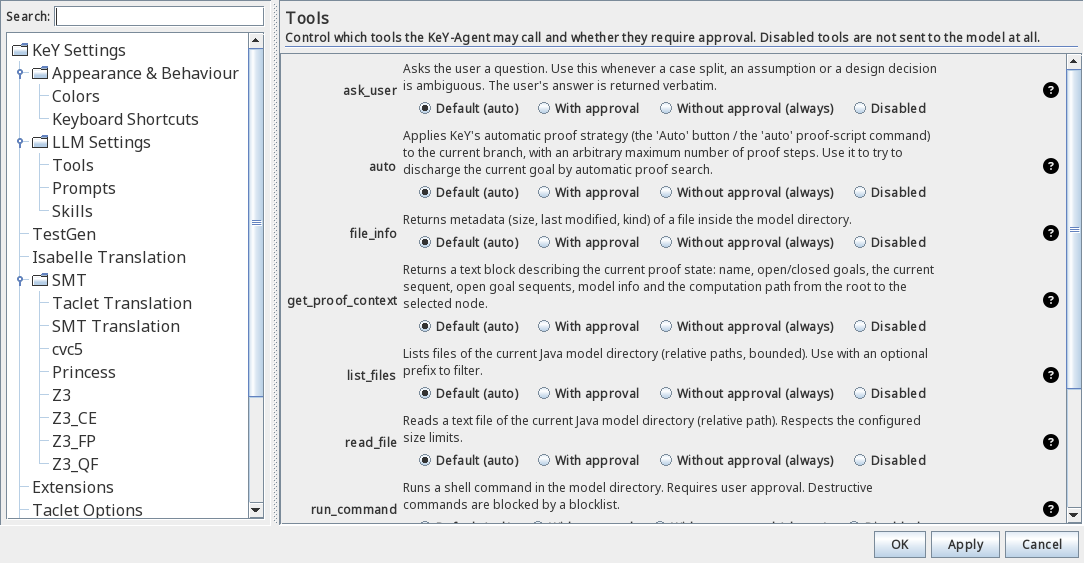
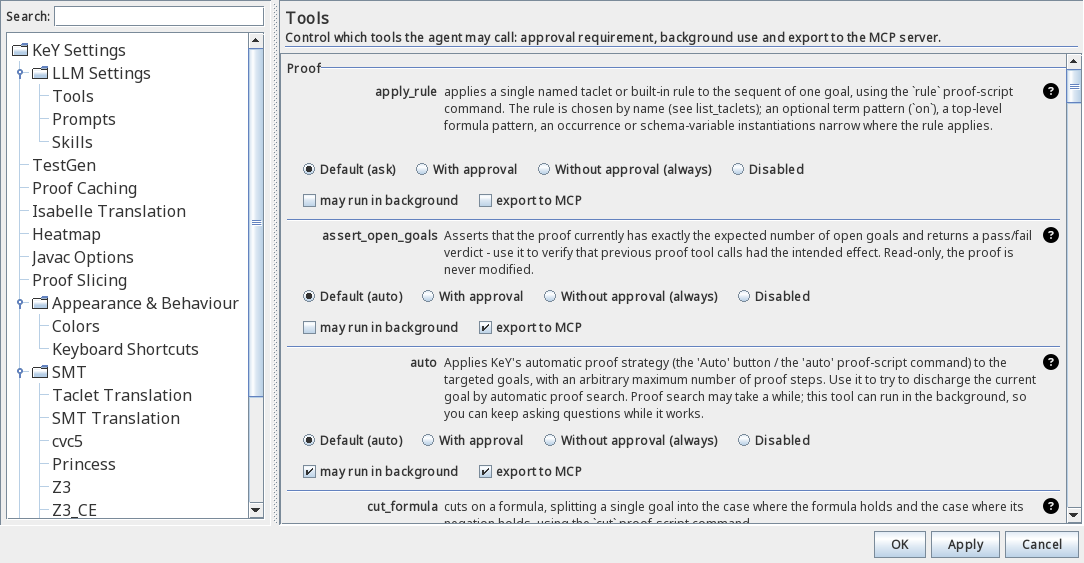
LLM docs: update screenshots and content for the current UI
Regenerate the three screenshots by painting the Swing components into
BufferedImages (LlmScreenshotsTest in the KeY repository) and rewrite the
page to match the current panel: right-side docking, Ctrl+P menu entry,
$/@// completions, KeY MCP server in the status line, tool console and
current tool permission UI.

diff --git a/docs/user/LLM/index.md b/docs/user/LLM/index.md
@@ -1,15 +1,15 @@
 ---
 author: "Alexander Weigl"
-date: "October 2026"
+date: "November 2026"
 ---
 
 # LLM Support (KeY-Agent)
 
-KeY comes with an integrated AI assistant, the **KeY-Agent**: a chat panel docked in the
-main window that answers questions about your current proof, can inspect the Java model
-and the sequent, and can run proof-script commands such as `tryclose` and `auto` on your
-behalf. It works with any OpenAI-compatible chat-completions service; by default KeY uses
-the LLM service operated by KIT (`https://ki-toolbox.scc.kit.edu/v1`).
+KeY comes with an integrated AI assistant, the **KeY-Agent**: a chat panel docked at the
+right side of the main window that answers questions about your current proof, can inspect
+the Java model and the sequent, and can run proof commands such as `tryclose` and `auto` on
+your behalf. It works with any OpenAI-compatible chat-completions service; by default KeY
+uses the LLM service operated by KIT (`https://ki-toolbox.scc.kit.edu`).
 
 ![The KeY-Agent panel docked in the main window](llm-panel.png){ width="800" }
 
@@ -27,23 +27,28 @@ the LLM service operated by KIT (`https://ki-toolbox.scc.kit.edu/v1`).
 ## Features
 
 - **Chat about the current proof** — the agent sees the proof name, status, the current
-  sequent and the open goals on request, and keeps a separate conversation for every proof.
+  sequent and the open goals, and keeps a separate conversation for every proof.
 - **Tool calls with approval** — the agent can execute proof tools; every sensitive action
   asks for your permission first, and you can disable tools entirely.
 - **Proof automation** — `tryclose` attempts to close the current goal or branch
-  automatically, `auto` runs KeY's automatic strategy for a bounded number of steps.
+  automatically, `auto` runs KeY's automatic strategy for a bounded number of steps, and
+  further tools apply single rules, run proof scripts, fork the proof, edit sequents and
+  probe candidate formulas.
 - **Taclet management** — list the available taclets and taclet options of any open proof,
   export them as parseable rule text, and add or remove taclets (changes require your
   approval).
-- **Code access** — tick files in the *Files* tab or reference them directly in the prompt;
-  file contents are embedded into the request (no extra round trip).
+- **Code access** — reference files with `@src/MyClass.java` to embed them into the message,
+  or let the agent use the `list_files`, `read_file`, `edit_file` and `file_info` tools.
 - **Reusable prompts and skills** — save your own prompt templates and background
   knowledge, and activate them per turn.
+- **Input assistance** — autocompletion for context tokens (`$`), files (`@`) and commands
+  (`/`); press ++ctrl+space++ to expand a token inline and ++ctrl+enter++ to send the prompt
+  from anywhere in the panel.
+- **KeY MCP server** — optionally expose the agent's tool set over the Model Context
+  Protocol (SSE) on the loopback interface, so external MCP clients such as Claude Desktop
+  can inspect and drive your proof, too.
 - **Sub-agents** — hand off isolated tasks (closing goals, inspecting files) to bounded
-  child agents with their own tool whitelist; several tasks can run in parallel, and the
-  sub-agent activity is recorded in a log the agent can consult.
-- **Input assistance** — autocompletion for context tokens, files and commands; press
-  ++ctrl+space++ to expand a token inline.
+  child agents with their own tool whitelist. Currently disabled by default.
 
 ## Configuration
 
@@ -57,59 +62,73 @@ optional; the defaults work out of the box once a valid token is set.
    OpenAI-compatible API.
 2. **Auth Token** — your API key for that service, issued by the operator of the service.
 3. **Default model** — the model to talk to. *Fetch Models* queries the service's model
-   list and fills **Available Models**; you can also type entries manually and switch the
-   model per proof from the panel's title menu.
-4. Everything else (system prompt, temperature, history and file budgets, shell policy) has
-   sensible defaults; the full reference is linked at the bottom of this page.
+   list and fills **Available Models**; you can also type entries manually. The model used
+   for a proof can be switched at any time from the panel's title menu (*Models* submenu).
+4. **Agent behavior** — the agent's system prompt, whether it may ask you questions
+   (*ask_user*, on), use skills (*use_skill*, off) or consult the LLM about its own
+   reasoning (*ask_llm*, on), and the per-turn budget of tool-calling rounds (8).
+5. Everything else (context and history budgets, file handling, shell policy, MCP server,
+   user interface) has sensible defaults; the full reference is linked at the bottom of this
+   page.
 
 ### Tool permissions
 
-The **Tools** sub-page decides what the agent may do and what needs your approval:
+The **Tools** sub-page decides what the agent may do, what needs your approval, and what is
+shared with external MCP clients:
 
 ![Per-tool permission settings](llm-settings-tools.png){ width="800" }
 
-Every tool has four modes: **Default (ask)** — follow the tool's own requirement,
-**With approval**, **Without approval (always)**, and **Disabled** — the tool is not even
-offered to the model. For example, set `run_command` to *Disabled* if the agent should
-never touch a shell, or give `tryclose` *Without approval* if the agent may prove freely.
+Every tool row offers four permission modes: **Default (ask)** or **Default (auto)** —
+follow the tool's own requirement, **With approval**, **Without approval (always)**, and
+**Disabled** — the tool is not even offered to the model. For example, set `run_command` to
+*Disabled* if the agent should never touch a shell, or give `tryclose` *Without approval*
+if the agent may prove freely. The **may run in background** checkbox allows long-running
+calls to continue in the background while you keep chatting, and **export to MCP** decides
+whether the tool is offered on the KeY MCP server (by default the auto-approved tools are
+exported).
 
 ## How to use
 
 ### Opening the agent
 
-The panel is visible from the start as the dock tab **KeY-Agent** (lower left, next to
-*Goals*); *Proof → LLM → Open LLM prompt* or ++ctrl+k++ focuses it. Each proof gets its
-own conversation; the history is kept while KeY is running.
+The panel is visible from the start as the dock tab **KeY-Agent** at the right side of the
+main window; *Proof → LLM → Open LLM prompt* (++ctrl+p++) focuses it. The tab menu offers
+*Switch Orientation* to re-dock the panel (left, bottom or right) and a *Models* submenu to
+switch the model of the current proof. Each proof gets its own conversation; the history is
+kept in memory while KeY is running.
 
 ### Sending prompts
 
-Type into the **Prompt** box and send with ++ctrl+enter++ (++shift+enter++ inserts a line
-break). Tick **attach proof context** to include the current sequent and goal
-automatically. While the agent is working, **Stop** cancels the turn; **Clear history**
-starts a fresh conversation.
+Type into the input box at the bottom of the panel and send with ++ctrl+enter++ (it works
+from anywhere in the panel, even while the conversation has the focus; ++shift+enter++
+inserts a line break). Tick **attach proof context** to include the current sequent and
+goal in every prompt automatically (off by default; the size budgets are in the settings).
+While the agent is working, **Stop** cancels the turn; **Clear history** starts a fresh
+conversation; the **Prompts** menu inserts a saved prompt template.
 
 ### Referring to code and proof state
 
-- **Files tab** — the files of the Java model appear as checkboxes; selected files are
-  attached to the conversation.
 - **`@src/MyClass.java`** — embeds a file (relative to the Java model directory) into the
   message as a code block.
-- **`$seq`**, **`$goals`**, **`$proof`**, **`$proofName`**, **`$selectedFiles`** — insert
-  the current sequent, open goals, a proof summary, the proof name, or the list of attached
-  files.
+- **`$seq`**, **`$goals`**, **`$proof`**, **`$proofName`**, **`$computePath`**,
+  **`$model`**, **`$classpath`**, **`$bootClasspath`**, **`$selectedFiles`**, **`$input`**
+  — insert the current sequent, open goals, a proof summary, the proof name, the proof's
+  compute path, the Java profile, class paths, the list of attached files, or the prompt
+  text itself.
 - Type `$`, `@` or `/` to get autocomplete suggestions; ++ctrl+space++ expands the token at
-  the caret.
+  the caret. The `/` commands open the **Prompts** and **Skills** libraries
+  (`/prompts`, `/skills`) and activate entries by name (`/prompt:name`, `/skill:name`).
 
 ### Approvals and questions
 
 When the agent wants to execute a sensitive tool, an **approval box** appears with
 *Allow once*, *Always allow*, and *Deny* — "always" is remembered for the rest of the
 session and can be revoked in the Tools settings. The agent may also ask you a direct
-question (**ask_user** tool); answer it in the chat and the turn continues.
+question (*ask_user*); answer it in the chat and the turn continues.
 
 ### Reusable prompts and skills
 
-The **Prompts** button (and the `/prompts` command) opens the prompt library, where you can
+The **Prompts** menu (and the `/prompts` command) opens the prompt library, where you can
 create, edit and import prompt templates; `/prompt:name` inserts a template into the input.
 **Skills** are bundles of instructions and allowed tools that act as background knowledge;
 `/skill:name` activates one for the current turn (the setting **Agent may use skills** must
@@ -119,16 +138,39 @@ be enabled). Both libraries are edited in the settings under *LLM Settings → P
 files from older versions are migrated automatically on first access, and
 *Import/Export* exchanges a ZIP archive of these Markdown files.
 
+### The KeY MCP server
+
+The status line at the bottom of the main window carries the **MCP** indicator (a red or
+green dot next to the label). Click it to start or stop the **KeY MCP server**, which
+exposes the agent's tool set over the Model Context Protocol using HTTP with
+Server-Sent Events. By default it binds to the loopback interface (`127.0.0.1`) on a free
+ephemeral port, so it is only reachable from your own machine; the host, port and an
+optional bearer token can be changed under *LLM Settings → MCP server*. While the server
+runs, hovering over the indicator shows the endpoint URL (click it to copy it to the
+clipboard); point your MCP client (for example Claude Desktop) at that URL to use KeY's
+proof tools from outside. Which tools are offered is controlled per tool by the **export
+to MCP** permission. Tool calls from external clients are serialized with the GUI
+agent's own tool calls, so both sides observe one consistent proof state.
+
+### Tool console
+
+*Proof → LLM → Tool Console…* opens the tool console: a table of all tools with their
+category and description. Select a tool, fill in its arguments (the **JSON** checkbox
+switches between the form generated from the tool's JSON schema and raw JSON), and press
+*Execute*. Ticking **Approve tool execution** routes the call through the normal approval
+prompt even for auto-approved tools.
+
 ### Sub-agents
 
 Bounded child agents with a dedicated role (`goal-solver`, `file-explorer`,
 `rule-designer`): each runs its own tool-calling loop under a separate message thread and
-is restricted to the tools of its role's whitelist. To use them, enable *Agent may spawn
-sub-agents* in the LLM settings; a delegation asks for your approval and then runs
-autonomously (children never pause for approvals). A single task runs in `sequential`
-mode, an array of independent tasks can run concurrently in `parallel` mode. The runs are
-recorded in a per-session log that the agent itself can read back (`get_subagent_logs`),
-and the chat panel shows the sub-agent tasks indented under the activity summary.
+is restricted to the tools of its role's whitelist. The agent delegates via the
+`spawn_subagent` tool, which asks for your approval and then runs autonomously (children
+never pause for approvals). A single task runs in `sequential` mode, an array of
+independent tasks can run concurrently in `parallel` mode. The runs are recorded in a
+per-session log that the agent itself can read back (`get_subagent_logs`), and the chat
+panel shows the sub-agent tasks indented under the activity summary. In the current
+development version this feature is disabled by default.
 
 ## Troubleshooting
 
@@ -138,6 +180,7 @@ and the chat panel shows the sub-agent tasks indented under the activity summary
 | The model list stays empty | *Fetch Models* needs a valid token and a reachable endpoint. |
 | The agent cannot read a file | Files must live in the Java model directory; large files are skipped (size caps in the settings). |
 | The agent runs shell commands | Disable `run_command` in the Tools settings, or adjust the blocklist patterns. |
+| MCP client cannot connect | The server binds to loopback only by default; check host and port in the MCP server settings, and the token if one is set. |
 | History is gone | Conversations are kept per proof in memory only; they do not survive a restart. |
 
 The complete settings reference, the full list of input tokens and the architecture notes
